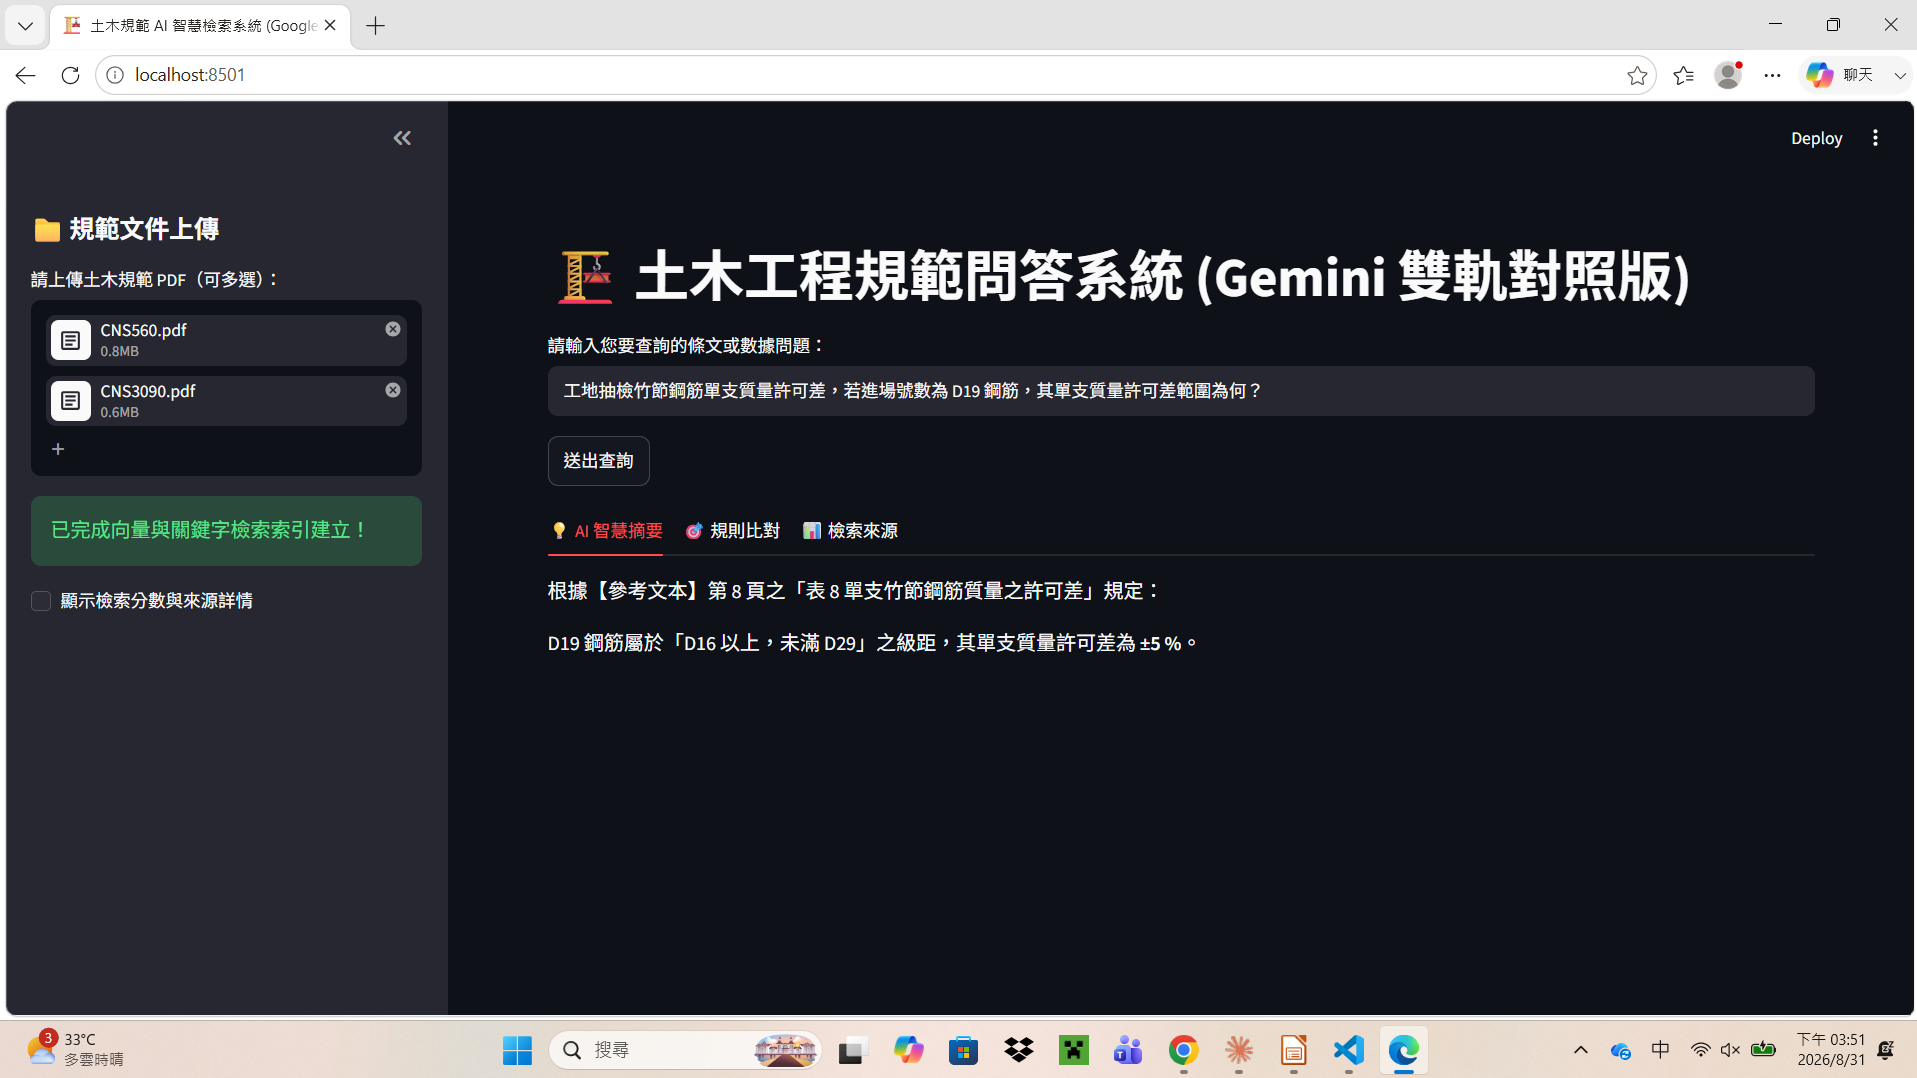
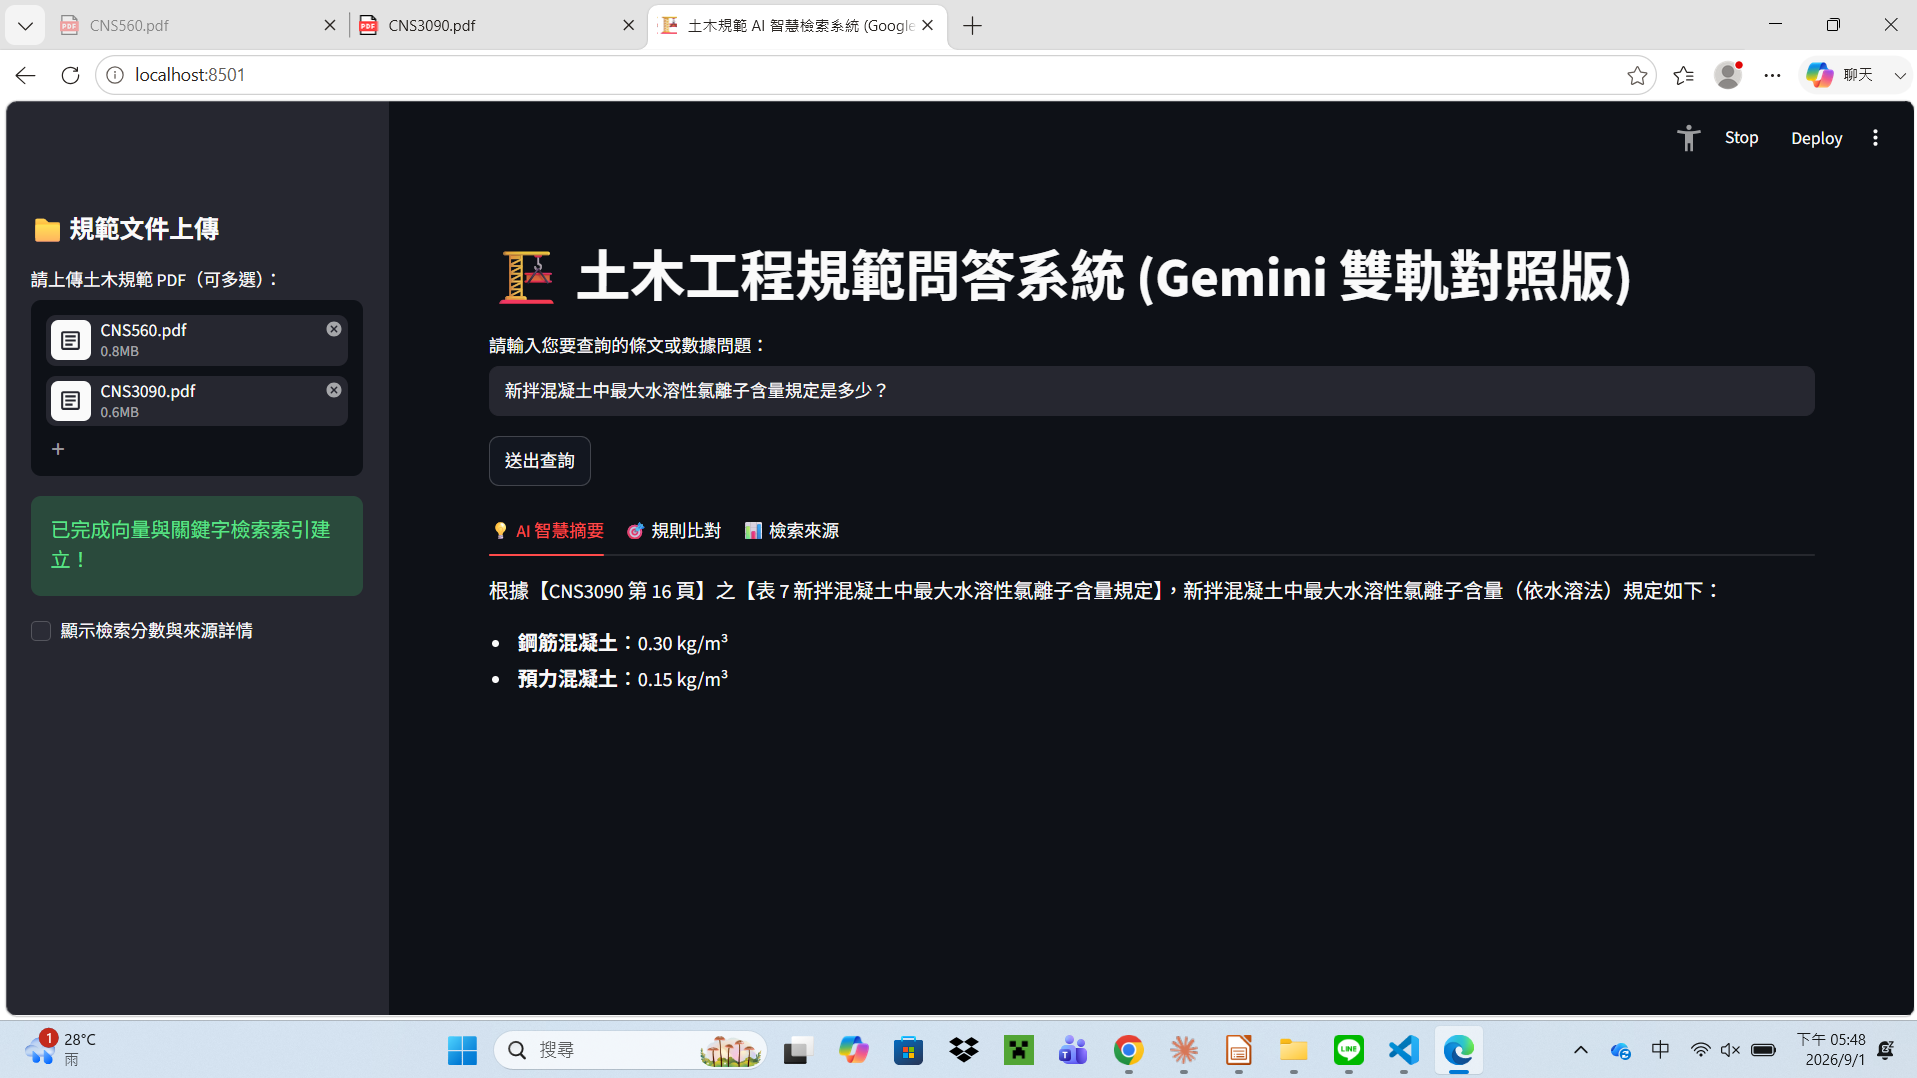
更新 README 截圖為修正後的最新畫面
AI 智慧摘要與檢索來源截圖換成目前版本的實際查詢結果（CNS3090 表7
氯離子含量），可看到清楚的表號/頁碼引用與 Rerank 1.000 的乾淨表格，
反映本輪表格辨識與引用標示的修正成果；成效驗證段落的範例查詢與分數
同步更新為新截圖對應的內容。

diff --git a/README.md b/README.md
@@ -102,7 +102,7 @@ flowchart TB
 
 **Cross-Encoder Reranker：檢索精準度**
 
-實際查詢「SD420W 和 SD690 的降伏強度和抗壓強度是多少」（見上方截圖），前三筆候選文件的 Reranker 分數分別為 **0.998、0.998、0.996**（滿分 1.0），顯示候選文件跟問題的語意相關性非常高，確保送進 LLM 的 context 都是真正相關的內容，而非「矮子裡拔高個」湊出來的次要結果。
+實際查詢「新拌混凝土中最大水溶性氯離子含量規定是多少？」（見上方截圖），最相關的候選文件（CNS3090 表 7）Reranker 分數達 **1.000**（滿分 1.0），顯示候選文件跟問題的語意相關性非常高，確保送進 LLM 的 context 都是真正相關的內容，而非「矮子裡拔高個」湊出來的次要結果。
 
 **表格辨識覆蓋率：全面掃描前後對照**
 
